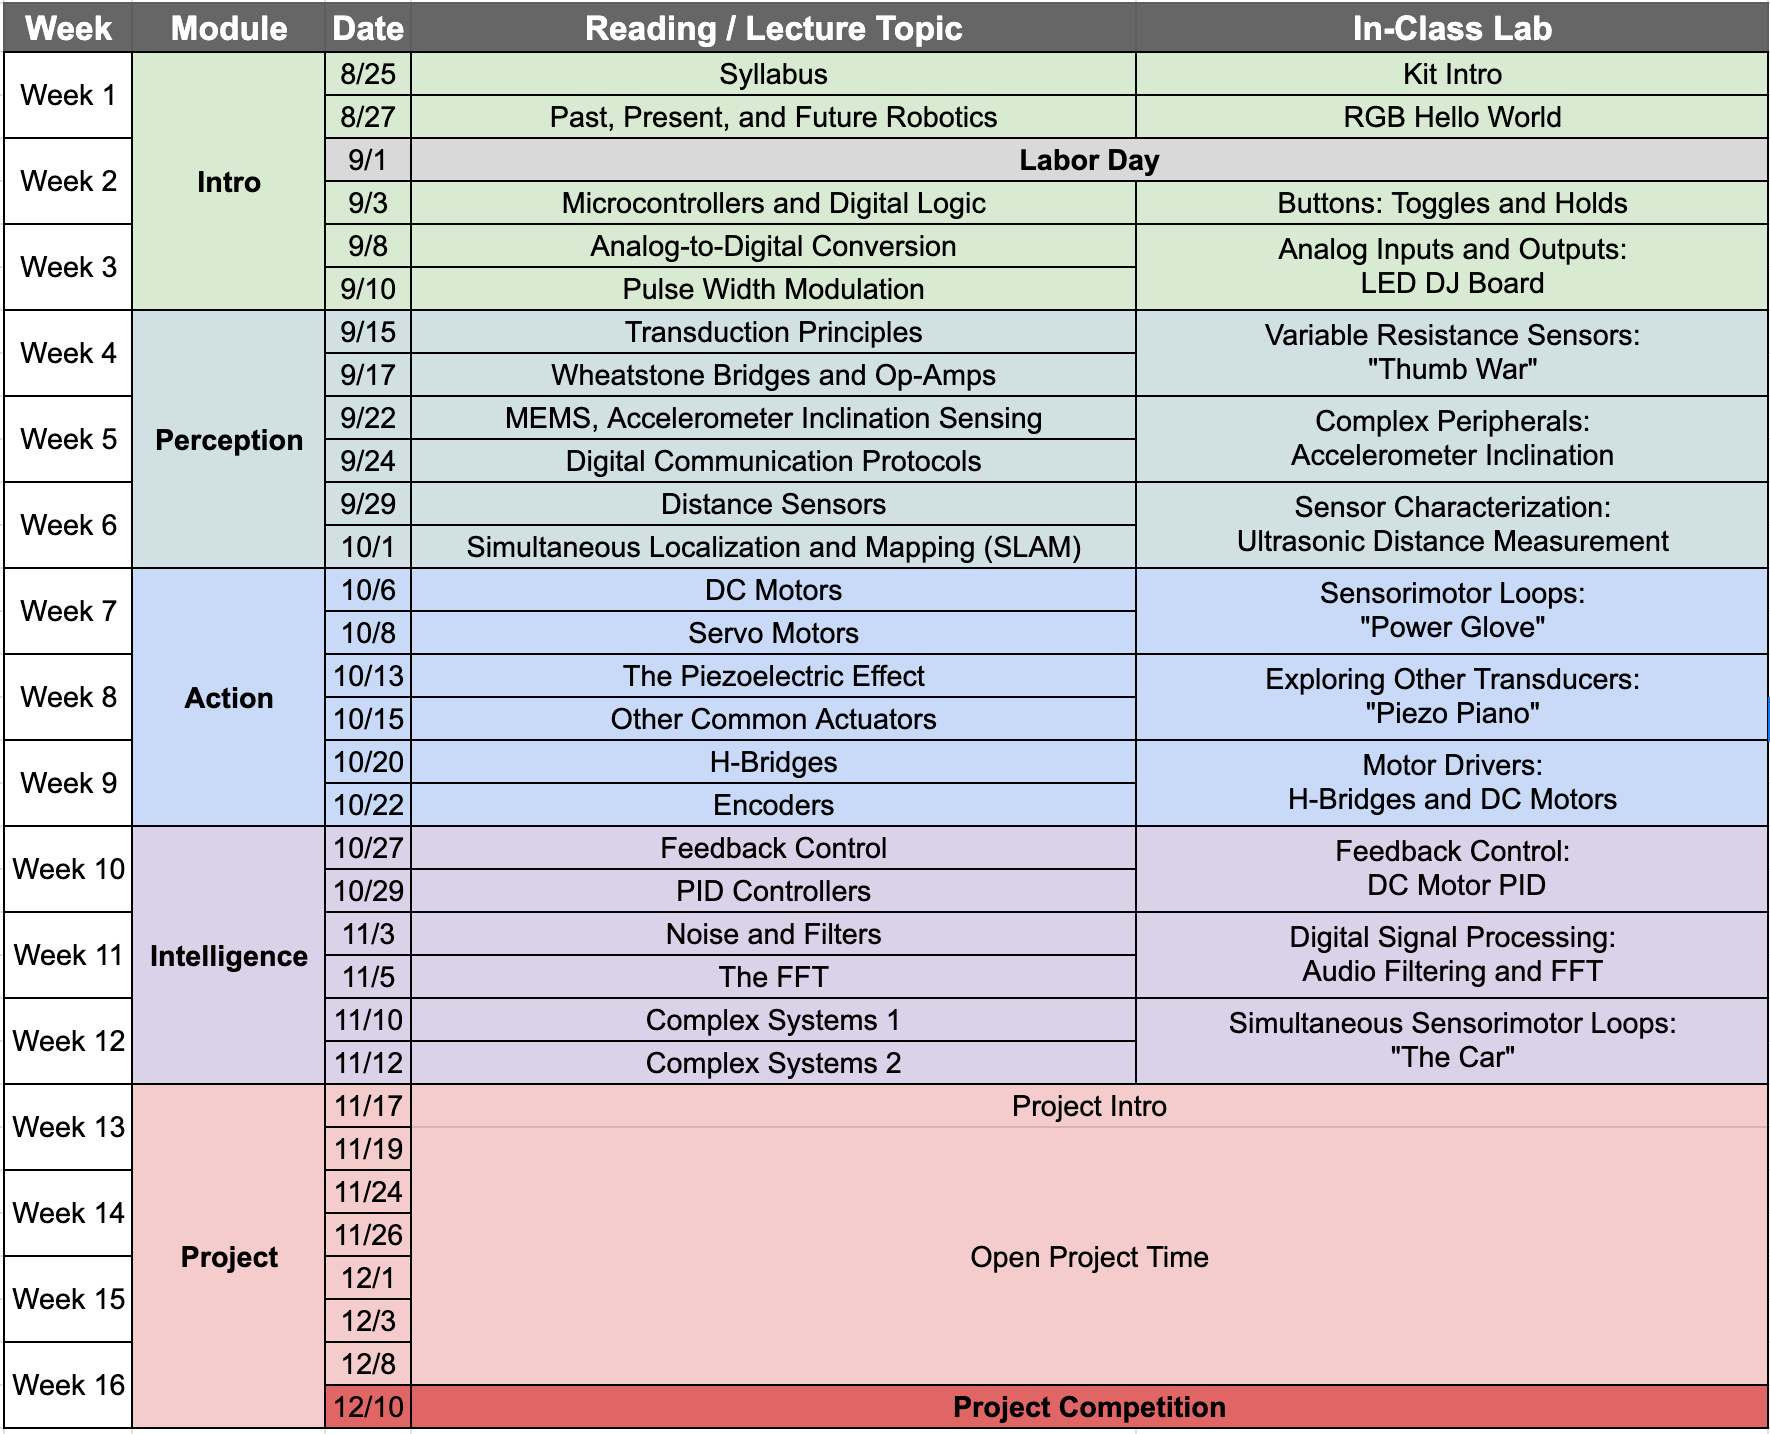
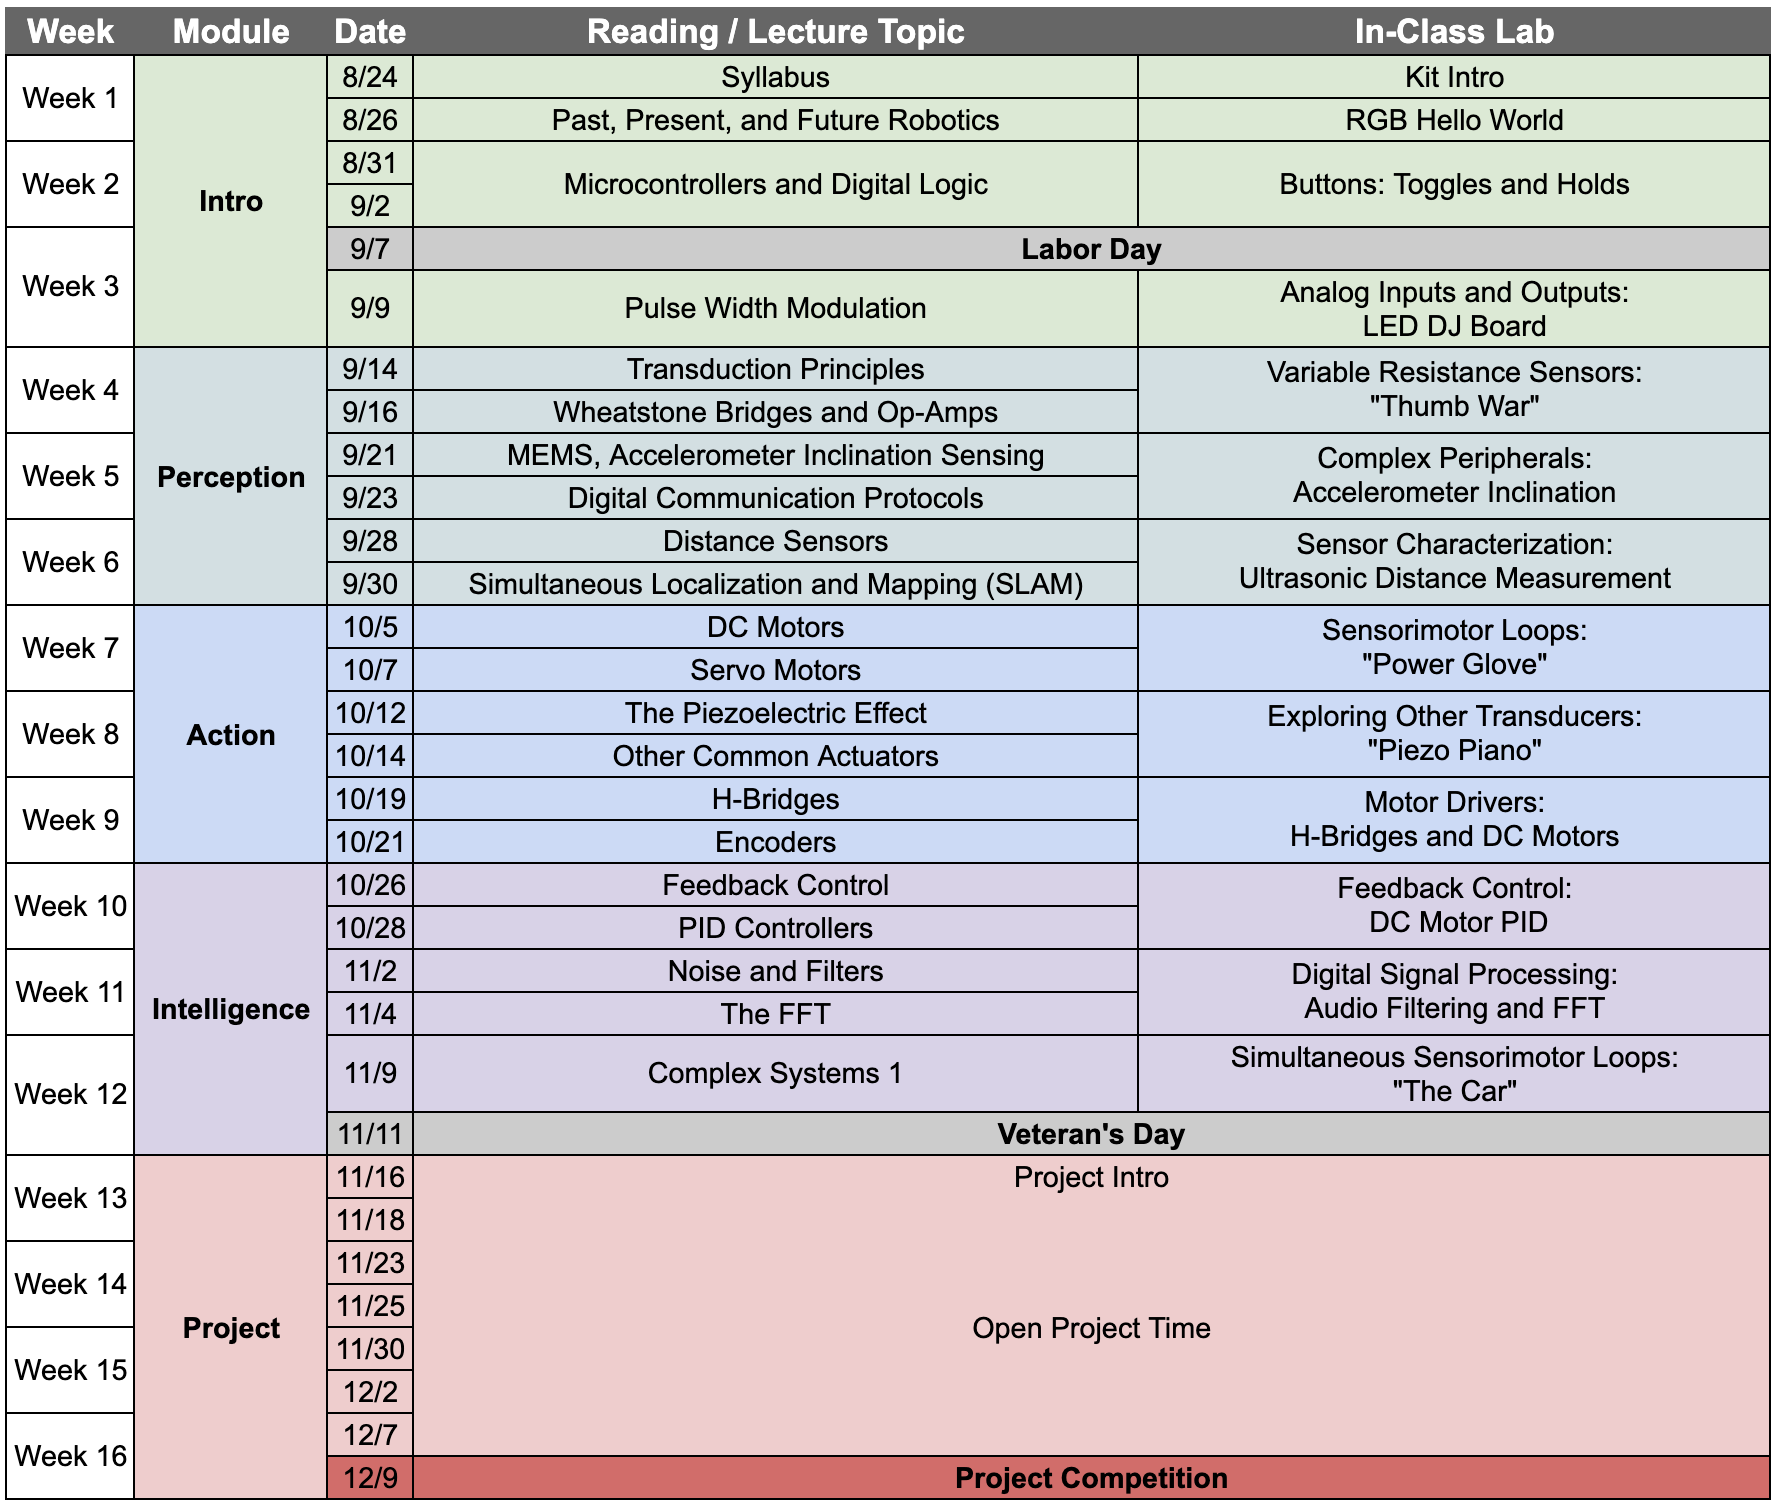
FA26 - Init commit (Week 1)

Changed region(s): [[0.0, 0.0, 1.0, 1.0], [0.5282, 0.8591, 0.6836, 0.8898], [0.1243, 0.4603, 0.1554, 0.4909]]

diff --git a/index.md b/index.md
@@ -2,7 +2,7 @@
 
 # ECE 491H: Fundamentals of Robotics and Cyberphysical Systems
 **Instructor:** Dr. Daniel Drew, Assistant Professor, Electrical Engineering\
-**Course Meets:** Mo/We 3:30pm - 4:45pm, KUY 306
+**Course Meets:** Mo/We 3:30pm - 4:45pm, Sakamaki A102
 
 **Course Summary:**\
 This 3-credit course will cover fundamental concepts related to the sensing, actuation, signal processing, and control mechanisms underlying robots and other intelligent physical systems.<br><br> Robots and other connected devices with the ability to physically interact with the world around them are transforming the world. The study of these systems is inherently interdisciplinary, and working on them effectively requires both a broad skillset and the ability to think about end-to-end systems holistically. This course is divided into three overarching modules: sensing, actuation, and intelligence. Each module will contain detail about both the theoretical underpinnings and the practical implementation of the topic material. Every class will include hands-on experience with electronic components and an embedded microcontroller, building the requisite tools over the course of the semester for a final project where you will program an autonomous robot in a class competition.<br><br> Specific topics of study include: transduction principles of common sensors and actuators, basic circuits and principles for the interfacing of sensors and actuators with embedded microcontrollers, microcontroller architecture concepts, introductory-level digital signal processing including intelligent thresholding, low- and high-pass filters, introductory feedback control principles including PID, and machine learning concepts like neural networks. 
@@ -11,6 +11,21 @@ For more information, please see [the course syllabus](readings/reading1/syllabu
 
 Note that this is a **live site**; I will be adding Readings and Labs module blocks, and enabling links within modules, as we go through the course. This helps me adjust pacing and content to better fit our progress.
 
+## Readings
+
+|              Topic                                                                 | Date |
+| :-------                                                                           |:----:|
+|[1. Course Syllabus](readings/reading1/syllabus.md)                                 | 8/24 |
+|[2. Past, Present, and Future of Robotics](readings/reading2/reading2.md)           | 8/26 |
+
+## Labs
+
+|              Topic                                                                 | Date |
+| :-------                                                                           |:----:|
+|[1. Installing Circuitpython](labs/lab1/lab1.md)                                    | 8/24 |
+|[2. RGB LED Intro](labs/lab2/lab2.md)                                               | 8/26 |
+
+<!--
 ## Readings
 
 |              Topic                                                                 | Date |
@@ -60,55 +75,5 @@ Note that this is a **live site**; I will be adding Readings and Labs module blo
 | :-------                                                                           |:----:|
 |[Project Documentation](project/project.md)                                        |11/17 - 12/10 |      
 |||
-
-
-<!--
-## Readings
-
-|              Topic                                                                 | Date |
-| :-------                                                                           |:----:|
-|[1. Course Syllabus](readings/reading1/syllabus.md)                                 | 8/25 |
-|[2. Past, Present, and Future of Robotics](readings/reading2/reading2.md)           | 8/27 |
-|[3. Microcontrollers and Digital Logic](readings/reading3/reading3.md)              | 9/03 |
-|[4. Analog-to-Digital Conversion](readings/reading4/reading4.md)                    | 9/08 |
-|[5. Pulse Width Modulation](readings/reading5/reading5.md)                          | 9/10 |
-|[6. Transduction Principles](readings/reading6/reading6.md)                         | 9/15 |
-|[7. Sensor Readout Circuits](readings/reading7/reading7.md)                         | 9/17 |   
-|[8. MEMS Sensors](readings/reading8/reading8.md)                                    | 9/22 |  
-|[9. Digital Communication Protocols](readings/reading9/reading9.md)                 | 9/24 | 
-|[10. Distance Sensors](readings/reading10/reading10.md)                             | 9/29 | 
-|[11. Simultaneous Localization and Mapping (SLAM)](readings/reading11/reading11.md) | 10/01 |
-|[12. DC Motors](readings/reading12/reading12.md)                                    | 10/06 |
-|[13. Servo Motors](readings/reading13/reading13.md)                                 | 10/08 |
-|[14. The Piezoelectric Effect](readings/reading14/reading14.md)                     | 10/13 |
-|[15. Other Important Actuators](readings/reading15/reading15.md)                    | 10/15 |
-|[16. Motor Driver Circuits](readings/reading16/reading16.md)                        | 10/20 |
-|[17. Encoders](readings/reading17/reading17.md)                                     | 10/22 |
-|[18. Feedback Control Overview](readings/reading18/reading18.md)                    | 10/27 |
-|[19. PID Controllers](readings/reading19/reading19.md)                              | 10/29 |
-|[20. Noise and Filters](readings/reading20/reading20.md)                            | 11/03 |
-|[21. The Fast Fourier Transform](readings/reading21/reading21.md)                   | 11/05 |
-
-## Labs
-
-|              Topic                                                                 | Date |
-| :-------                                                                           |:----:|
-|[1. Installing Circuitpython](labs/lab1/lab1.md)                                    | 8/25 |
-|[2. RGB LED Intro](labs/lab2/lab2.md)                                               | 8/27 |
-|[3. Digital Inputs and Outputs](labs/lab3/lab3.md)                                  | 9/03 |
-|[4. Analog Inputs and Outputs: LED DJ Board](labs/lab4/lab4.md)                     | 9/08, 9/10 | 
-|[5. Variable Resistance Sensors: Thumb War](labs/lab5/lab5.md)                      | 9/16, 9/18 |
-|[6. Complex Peripherals: Accelerometer Inclination](labs/lab6/lab6.md)              | 9/23, 9/25 |
-|[7. Sensor Characterization: Ultrasonic Obstacle Detector](labs/lab7/lab7.md)       | 9/30, 10/02 |
-|[8. Sensor and Actuator Integration: The Powerglove](labs/lab8/lab8.md)             | 10/07, 10/09 |
-|[9. Exploring Other Actuators: Piezo Piano](labs/lab9/lab9.md)                      | 10/14, 10/16 |
-|[10. DC Motor Driver Circuits: The H Bridge](labs/lab10/lab10.md)                   | 10/21, 10/23 |
-|[11. Feedback Control: DC Motor PID](labs/lab11/lab11.md)                           | 10/28, 10/30 | 
-|[12. Digital Signal Processing: Audio Filtering and FFT](labs/lab12/lab12.md)       | 11/04, 11/06 |
-
-## Project
-
-|              Topic                                                                 | Date |
-| :-------                                                                           |:----:|
-|[Project Documentation](project/project.md)                                        |11/18 - 12/9 |      
 -->
+

diff --git a/readings/reading1/syllabus.md b/readings/reading1/syllabus.md
@@ -11,8 +11,8 @@
 | **Instructor** | Dr. Daniel Drew |
 | **Prerequisities** | Basic Python<br>Basic Circuits |
 | **Credit Hours** | 3 |
-| **Semester** | Fall 2025 |
-| **Meets** | MoWe 3:30pm - 4:45pm, KUY 306 |
+| **Semester** | Fall 2026 |
+| **Meets** | MoWe 3:30pm - 4:45pm, Sakamaki A102 |
 | **Description** | This 3-credit course will cover fundamental concepts related to the sensing, actuation, signal processing, and control mechanisms underlying robots and other intelligent physical systems.<br><br> Robots and other connected devices with the ability to physically interact with the world around them are transforming the world. The study of these systems is inherently interdisciplinary, and working on them effectively requires both a broad skillset and the ability to think about end-to-end systems holistically. This course is divided into three overarching modules: sensing, actuation, and intelligence. Each module will contain detail about both the theoretical underpinnings and the practical implementation of the topic material. Every class will include hands-on experience with electronic components and an embedded microcontroller, building the requisite tools over the course of the semester for a final project where you will program an autonomous robot in a class competition.<br><br> Specific topics of study include: transduction principles of common sensors and actuators, basic circuits and principles for the interfacing of sensors and actuators with embedded microcontrollers, microcontroller architecture concepts, introductory-level digital signal processing including intelligent thresholding, low- and high-pass filters, introductory feedback control principles including PID, and machine learning concepts like neural networks. |
 
 ## Goals and Objectives

diff --git a/project/project.md b/project/project.md
@@ -1,5 +1,10 @@
 <link rel="stylesheet" type="text/css" href="../../assets/css/styles.css">
 
+<!--
+NOTES TO SELF:
+-Include rotaryio information for the encoders!
+-->
+
 # The Line-Following Robot
 
 Building a line-following robot is a standard milestone in every budding young robotocist's career. You have probably seen or heard about doing this, or already built one yourself! I think it is a nice way to tie together a lot of the course concepts from this semester; you will need to interface with a new sensor, design and tune a basic feedback system to stay on the line, work with motors and encoders, and carefully architect a state machine to keep track of where you are in the course. 
